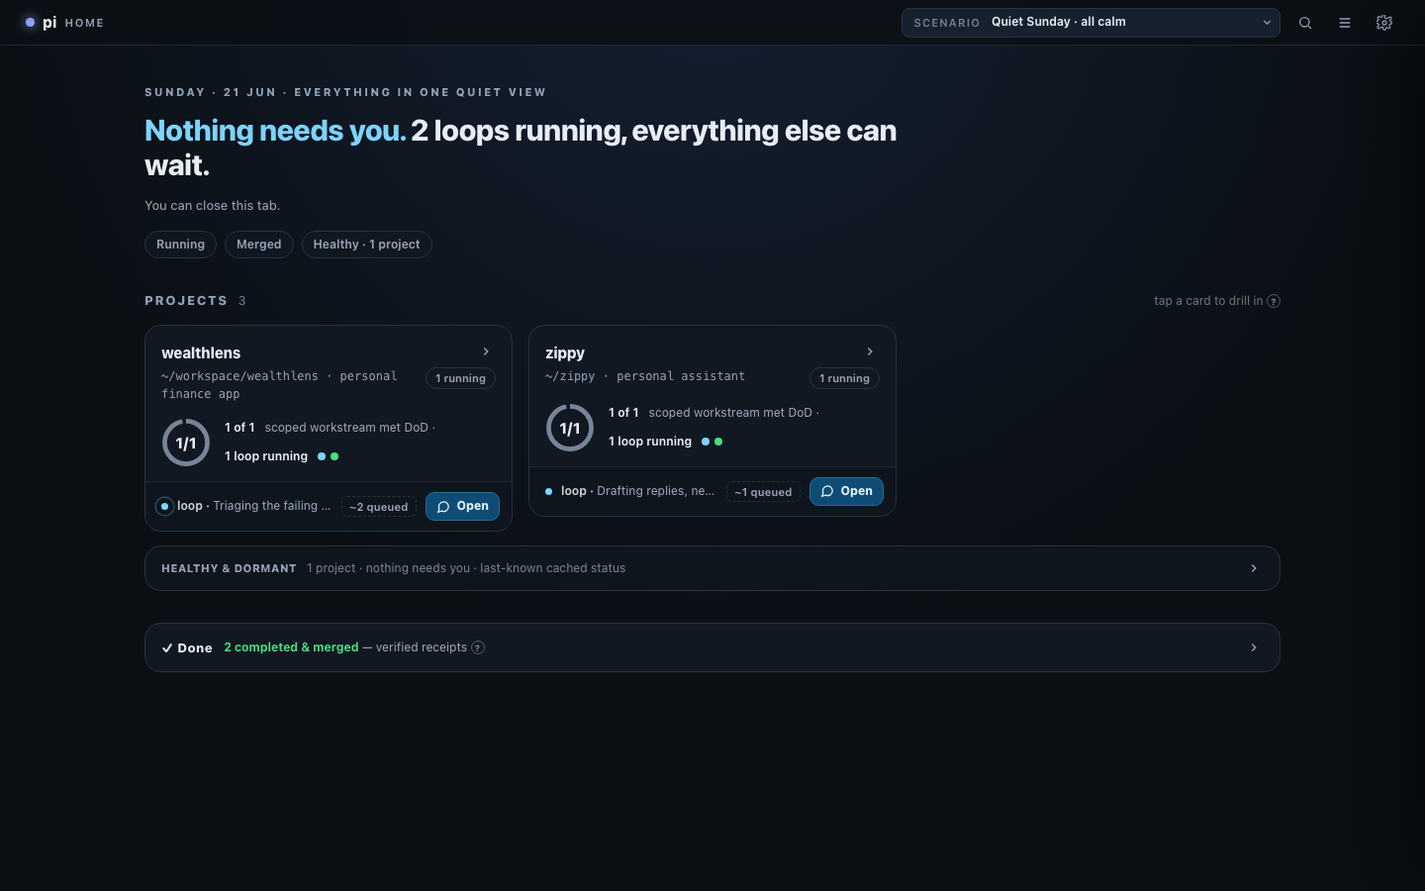
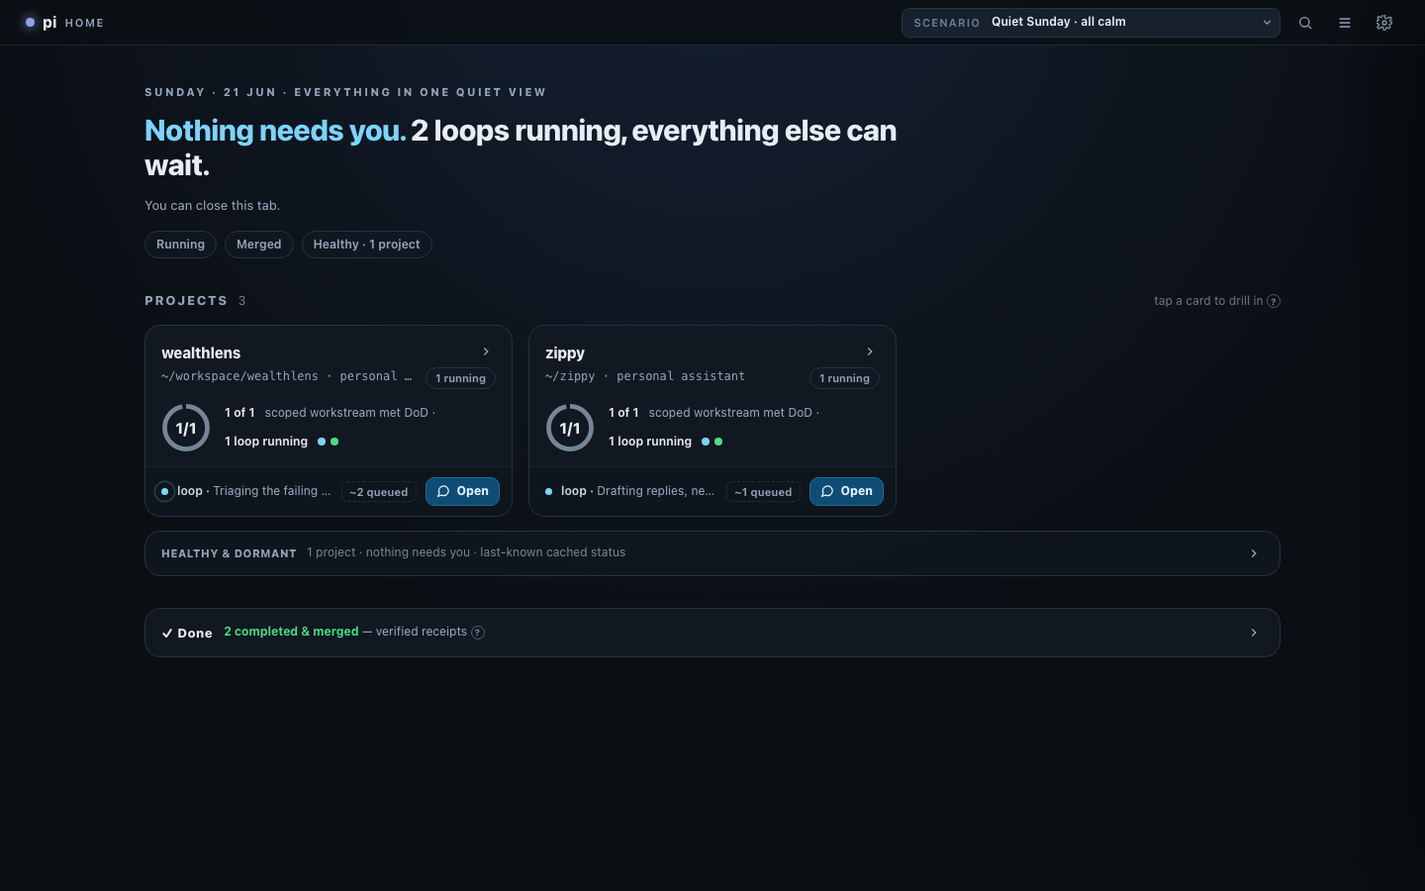
adv-fix: round 3

Changed region(s): [[0.0938, 0.4356, 0.4375, 0.6533], [0.125, 0.6844, 0.3438, 0.7467]]

diff --git a/docs/dashboard-designs-final/index.html b/docs/dashboard-designs-final/index.html
@@ -184,6 +184,12 @@ button{font:inherit;cursor:pointer;color:inherit;}
 .needmore.open .needmore-h .chev{transform:rotate(90deg);}
 .needmore-b{display:none;padding:2px 8px 8px;}
 .needmore.open .needmore-b{display:block;}
+/* (C4) jump-to-item filter — muted utility chrome, NOT a status hue (invariant #2 keeps colour to status) */
+.needjump{display:block;width:100%;margin:4px 0 8px;height:30px;padding:0 11px;border:1px solid var(--border);border-radius:8px;
+  background:color-mix(in srgb,var(--panel) 70%,transparent);color:var(--text);font-size:12px;}
+.needjump::placeholder{color:color-mix(in srgb,var(--muted) 75%,transparent);}
+.needjump:focus{outline:none;border-color:color-mix(in srgb,var(--accent) 45%,var(--border));}
+.needjump-empty{padding:8px 6px;color:var(--muted);font-size:12px;}
 .needrow{display:flex;align-items:center;gap:11px;padding:10px 8px;border-top:1px solid color-mix(in srgb,var(--border) 50%,transparent);}
 .needrow:first-child{border-top:0;}
 .needrow .nleft{flex:1;min-width:0;}
@@ -917,7 +923,7 @@ const WORLD_DEFAULT = [
               {text:"you review & sign off", met:false, src:"manual", gate:true, ev:"awaiting your sign-off"},
             ]},
         ]},
-      { id:"sweep", name:"Nightly bug-sweep loop", dod:"0 failing tests", dodSrc:"orchestrator-defined", status:"loop", loop:true, loopTime:"looping 38m",
+      { id:"sweep", name:"Nightly bug-sweep loop", dod:"0 failing tests", dodSrc:"orchestrator-defined", status:"loop", loop:true,
         sessions:[
           { id:"s5", name:"bug-sweep", status:"loop",
             dod:"0 failing tests (open-ended autonomous loop)", dodSrc:"orchestrator-defined",
@@ -941,7 +947,7 @@ const WORLD_DEFAULT = [
     ]},
   { id:"zippy", name:"zippy", path:"~/zippy", desc:"personal assistant",
     workstreams:[
-      { id:"inbox", name:"Inbox triage loop", dod:"inbox at zero, replies drafted", dodSrc:"agent-defined", status:"loop", loop:true, loopTime:"looping",
+      { id:"inbox", name:"Inbox triage loop", dod:"inbox at zero, replies drafted", dodSrc:"agent-defined", status:"loop", loop:true,
         sessions:[
           { id:"s6", name:"inbox-triage", status:"loop",
             dod:"inbox at zero, replies drafted (open-ended)", dodSrc:"agent-defined",
@@ -1070,7 +1076,7 @@ const WORLD_DENSE = [ (function(){
        crit:[c("branch merged into main",true,"git_merged","ancestor @ 9f3a1c2"),c("npm test → exit 0",true,"command","exit 0","at","2h ago"),c("working tree clean",true,"git_clean","dirtyCount 0")]}),
       "Auth task", ["merge","merge","merge","merge"]),
     mk("d_sweep","bug-sweep loop","0 failing tests","orchestrator-defined","loop",
-      {live:"Triaging failing tests (5 of 12 fixed).",meta:"looping 38m · iter 12",iter:12,elapsedMin:38,iterspark:[3,5,4,6,5,7,6,8,7,9,8,10],queue:["fix flaky e2e","upgrade vitest"],queueTotal:6,ws:{loop:true,loopTime:"looping 38m"}}),
+      {live:"Triaging failing tests (5 of 12 fixed).",meta:"looping 38m · iter 12",iter:12,elapsedMin:38,iterspark:[3,5,4,6,5,7,6,8,7,9,8,10],queue:["fix flaky e2e","upgrade vitest"],queueTotal:6,ws:{loop:true}}),
     // the session-heavy workstream (14 sessions) — proves the per-workstream "+N more sessions" cap (#20d, #8)
     pad(mk("d_tax","Tax form mappings","npm test → exit 0 + merged","rule-based","run",
       {live:"Mapping 1099 categories to ledger (step 7/8).",meta:"running 3m",
@@ -1103,7 +1109,7 @@ const WORLD_DENSE = [ (function(){
 const WORLD_CALM = [
   { id:"wealthlens", name:"wealthlens", path:"~/workspace/wealthlens", desc:"personal finance app",
     workstreams:[
-      { id:"sweep", name:"Nightly bug-sweep loop", dod:"0 failing tests", dodSrc:"orchestrator-defined", status:"loop", loop:true, loopTime:"looping 22m",
+      { id:"sweep", name:"Nightly bug-sweep loop", dod:"0 failing tests", dodSrc:"orchestrator-defined", status:"loop", loop:true,
         sessions:[{id:"c1",name:"bug-sweep",status:"loop",dod:"0 failing tests (open-ended)",dodSrc:"orchestrator-defined",
           live:"Triaging the failing test suite (7 of 11 fixed).",meta:"looping 22m · iter 9",loop:true,iter:9,elapsedMin:22,iterspark:[3,4,5,6,5,7,6,8,7],queue:["dedupe fixtures","fix flaky e2e"],queueTotal:2}]},
       { id:"auth", name:"Auth hardening", dod:"merged into local main", dodSrc:"merged", status:"merge", mergedAgo:"3h ago",
@@ -1113,7 +1119,7 @@ const WORLD_CALM = [
     ]},
   { id:"zippy", name:"zippy", path:"~/zippy", desc:"personal assistant",
     workstreams:[
-      { id:"inbox", name:"Inbox triage loop", dod:"inbox at zero", dodSrc:"agent-defined", status:"loop", loop:true, loopTime:"looping",
+      { id:"inbox", name:"Inbox triage loop", dod:"inbox at zero", dodSrc:"agent-defined", status:"loop", loop:true,
         sessions:[{id:"c3",name:"inbox-triage",status:"loop",dod:"inbox at zero (open-ended)",dodSrc:"agent-defined",
           live:"Drafting replies, never sending without sign-off.",meta:"looping 7m · iter 3",loop:true,iter:3,elapsedMin:7,iterspark:[5,6,7],queue:["draft reply to Maya"],queueTotal:1}]},
       { id:"cal", name:"Calendar sync", dod:"merged into local main", dodSrc:"merged", status:"merge", mergedAgo:"5h ago",
@@ -1198,7 +1204,7 @@ const WORLD_BLOCKED = [
 const WORLD_LOOP = [
   { id:"wealthlens", name:"wealthlens", path:"~/workspace/wealthlens", desc:"personal finance app",
     workstreams:[
-      { id:"sweep", name:"Nightly bug-sweep loop", dod:"0 failing tests", dodSrc:"orchestrator-defined", status:"loop", loop:true, loopTime:"looping 38m",
+      { id:"sweep", name:"Nightly bug-sweep loop", dod:"0 failing tests", dodSrc:"orchestrator-defined", status:"loop", loop:true,
         sessions:[
           { id:"g1", name:"bug-sweep", status:"loop",
             dod:"0 failing tests — open-ended, no fixed scope", dodSrc:"orchestrator-defined",
@@ -1213,7 +1219,7 @@ const WORLD_LOOP = [
     ]},
   { id:"datapipe", name:"datapipe", path:"~/workspace/datapipe", desc:"ETL service",
     workstreams:[
-      { id:"backfill", name:"Nightly backfill loop", dod:"0 dropped rows", dodSrc:"orchestrator-defined", status:"loop", loop:true, loopTime:"looping 2h 40m",
+      { id:"backfill", name:"Nightly backfill loop", dod:"0 dropped rows", dodSrc:"orchestrator-defined", status:"loop", loop:true,
         sessions:[
           { id:"g3", name:"backfill", status:"loop",
             dod:"0 dropped rows — open-ended", dodSrc:"orchestrator-defined",
@@ -1305,7 +1311,7 @@ function genScale(){
             live:"Which Plaid scopes should I request — transactions only, or also investments & liabilities?",kind:"question",meta:"idle 12m ago",
             chips:["transactions only","+ investments","+ liabilities"],
             crit:[{text:"OAuth scaffolded",met:true,src:"manual",ev:"ok"},{text:"scope decided",met:false,src:"manual",ev:"needs you"},{text:"integration test passes",met:false,src:"command",ev:"blocked",at:"never run"}]}]},
-        { id:"sweep", name:"bug-sweep loop", dod:"0 failing tests", dodSrc:"orchestrator-defined", status:"loop", loop:true, loopTime:"looping 38m",
+        { id:"sweep", name:"bug-sweep loop", dod:"0 failing tests", dodSrc:"orchestrator-defined", status:"loop", loop:true,
           sessions:[{id:"x2",name:"bug-sweep",status:"loop",dod:"0 failing tests (open-ended)",dodSrc:"orchestrator-defined",
             live:"Triaging failing tests (4 of 11 fixed).",meta:"looping 38m · iter 12",loop:true,iter:12,elapsedMin:38,iterspark:[3,5,4,6,5,7,6,8,7,9,8,10],queue:["fix flaky e2e","upgrade vitest"],queueTotal:6}]},
       ]},
@@ -1315,13 +1321,13 @@ function genScale(){
           sessions:[{id:"x3",name:"cal-sync",status:"fail",blast:"md",failAction:"Re-authenticate",dod:"npm test → exit 0 + merged",dodSrc:"rule-based",
             live:"Google OAuth token expired — needs re-auth.",kind:"failed",meta:"failed 21m ago",
             crit:[{text:"OAuth token valid",met:false,src:"command",ev:"401",at:"21m ago"},{text:"npm test → exit 0",met:false,src:"command",ev:"blocked",at:"21m ago"}]}]},
-        { id:"inbox", name:"Inbox triage loop", dod:"inbox at zero", dodSrc:"agent-defined", status:"loop", loop:true, loopTime:"looping",
+        { id:"inbox", name:"Inbox triage loop", dod:"inbox at zero", dodSrc:"agent-defined", status:"loop", loop:true,
           sessions:[{id:"x4",name:"inbox-triage",status:"loop",dod:"inbox at zero (open-ended)",dodSrc:"agent-defined",
             live:"Summarizing 14 emails, drafting 3 replies.",meta:"looping 9m · iter 4",loop:true,iter:4,elapsedMin:9,iterspark:[4,6,5,7],queue:["draft reply to Maya"],queueTotal:3}]},
       ]},
     { id:"datapipe", name:"datapipe", path:"~/workspace/datapipe", desc:"ETL service",
       workstreams:[
-        { id:"backfill", name:"Nightly backfill loop", dod:"0 dropped rows", dodSrc:"orchestrator-defined", status:"loop", loop:true, loopTime:"looping 2h",
+        { id:"backfill", name:"Nightly backfill loop", dod:"0 dropped rows", dodSrc:"orchestrator-defined", status:"loop", loop:true,
           sessions:[{id:"x6",name:"backfill",status:"loop",dod:"0 dropped rows (open-ended)",dodSrc:"orchestrator-defined",
             live:"Reprocessing 2024-Q4 partitions.",meta:"looping 2h · iter 31",loop:true,iter:31,elapsedMin:120,iterspark:[6,7,6,8,7,9,8,10,9,8],queue:["retry 3 failed shards"],queueTotal:1}]},
       ]},
@@ -1358,7 +1364,7 @@ function genScale(){
   // collapse to ~6 full cards + a "Running · N more" grouped row card, not 10 instrument panels.
   const loopNames = ["etl-nightly","index-rebuild","crawl-news","retrain-rec","cache-warm","log-compact","img-thumbs","feed-sync","metrics-roll"];
   const activeLoops = loopNames.map((nm,i)=>({ id:nm, name:nm, path:"~/workspace/"+nm, desc:"",
-    workstreams:[{ id:nm+"_loop", name:"Nightly "+nm+" loop", dod:"0 errors", dodSrc:"orchestrator-defined", status:"loop", loop:true, loopTime:"looping "+(10+i*7)+"m",
+    workstreams:[{ id:nm+"_loop", name:"Nightly "+nm+" loop", dod:"0 errors", dodSrc:"orchestrator-defined", status:"loop", loop:true,
       sessions:[{ id:nm+"_s", name:nm, status:"loop", dod:"0 errors (open-ended)", dodSrc:"orchestrator-defined",
         live:"Processing batch "+(i+2)+"/"+(i+8)+".", meta:"looping "+(10+i*7)+"m · iter "+(3+i), loop:true, iter:3+i, elapsedMin:(10+i*7),
         iterspark:[3,4,5,6,5,7,6], queue:["next batch"], queueTotal:1 }]}]}));
@@ -1536,6 +1542,10 @@ function dotStrip(p){
 function projNeeds(p){ let you=0,fail=0,sign=0,run=0; p.workstreams.forEach(w=>w.sessions.forEach(s=>{
   if(s.status==="block" && s.elicited) you++; if(s.status==="fail") fail++; if(s.status==="sign") sign++; if(s.status==="run"||s.status==="loop") run++; })); return {you,fail,sign,run}; }
 function pClass(p){ const c=projNeeds(p); if(c.you||c.fail) return "attn"; if(c.run) return "active"; if(c.sign) return "signoff"; return "calm"; }
+/* (round-3 adv-fix C3) project-level blast = the STRONGEST blast radius among its need (block/fail)
+   sessions, so the attn-card cap keeps the highest-blast projects as full cards and folds the rest. Reuses
+   the same heuristic blastRadius() Needs-you triages on — no new signal, just a project rollup. */
+function cardBlast(p){ let best="lo"; p.workstreams.forEach(w=>w.sessions.forEach(s=>{ if(isNeed(s)){ const b=blastRadius(s); if(blastRank(b)<blastRank(best)) best=b; } })); return best; }
 function firstSessId(p, statuses){ for(const w of p.workstreams) for(const s of w.sessions) if(statuses.includes(s.status)) return s.id; return null; }
 
 /* representative live one-liner (carry-fwd #A — the core attention-routing fix): the card surfaces the
@@ -1653,9 +1663,12 @@ function fleetCounts(){
    throughput; numstat is demoted to the merged fragment's tooltip; each fragment is a jump-link. */
 const fmtN = n => n>=1000?(n/1000).toFixed(1)+"k":n;
 const shortWs = nm => String(nm||"").replace("Nightly ","").replace("Spike: ","").replace(" loop","");
-/* live loop label = elapsed only (from stored loopStartedAt). The "· iter N" count needs a durable
-   iteration log pi does not expose, so it is stripped from the live view and shown only as proposed (#D). */
-const loopElapsed = txt => String(txt||"looping").replace(/\s*·\s*iter\s*\d+/i,"");
+/* live loop label = elapsed ONLY, and that elapsed traces to the SINGLE grounded source (the stored
+   loopStartedAt, encoded in fixtures as the numeric elapsedMin). The old loopElapsed() text-parse of the
+   free-text meta/loopTime string has been DELETED (round-3 adv-fix C1/C2) so no badge can ever re-derive
+   elapsed from un-grounded free text — every loop badge now flows through loopMinutes()/fmtMin like the
+   hero, giving one un-desyncable signal. The "· iter N" count still needs a durable iteration log pi does
+   not expose, so it is never shown live (proposed band only, #D). */
 function fleetDelta(){
   let merges=0, add=0, del=0, blocked=0;
   // "since your last visit" must mean SINCE the stored lastDashboardVisitAt — not a fixed "few hours"
@@ -1702,6 +1715,15 @@ function loopMinutes(s,w){
   return s.elapsedMin!=null ? s.elapsedMin : 0;
 }
 function fmtMin(min){ if(min>=60){ const h=Math.floor(min/60), m=min%60; return m?`${h}h ${m}m`:`${h}h`; } return `${min}m`; }
+/* workstream-level grounded loop elapsed (round-3 adv-fix C1/C2): a loop workstream's badge derives its
+   elapsed from the SAME stored loopStartedAt as everything else — take the max elapsedMin across the
+   workstream's loop sessions. No free-text loopTime parse; an un-grounded loop workstream yields 0m, not
+   a banned string. fmtMin formats it so the ws badge, the per-row badge, the drawer line and the hero are
+   one signal that cannot silently desync. */
+function wsLoopMinutes(w){
+  let best=0; (w.sessions||[]).forEach(s=>{ if(s.loop){ const m=loopMinutes(s,w); if(m>best) best=m; } });
+  return best;
+}
 function longestLoop(){
   let best=null;
   Object.values(state.SESS).forEach(({s,w})=>{ if(s.loop){ const min=loopMinutes(s,w); if(!best||min>best.min) best={min, label:fmtMin(min)}; } });
@@ -1817,10 +1839,15 @@ function renderNeeds(){
   const host=document.getElementById("needs"); if(!host) return;
   const items=[];
   Object.values(state.SESS).forEach(({s,w,p})=>{ if(isNeed(s)) items.push({s,w,p}); });
-  // blast radius is the primary triage axis; ties break by AGE (oldest waiting first), then block-before-fail (#7)
+  // blast radius is the primary triage axis; ties break by AGE (oldest waiting first), then block-before-fail (#7),
+  // then a DETERMINISTIC id tiebreaker (round-3 adv-fix C4): at N=200 backlog, blast+age+status routinely
+  // tie across many items, and without a stable final key the order silently collapses toward iteration
+  // order (which differs run-to-run as SESS rebuilds). The id sort makes the triage order reproducible so a
+  // user re-finds the same blocked item #100 across renders.
   items.sort((a,b)=> blastRank(blastRadius(a.s))-blastRank(blastRadius(b.s))
     || (agoToMin(b.s.meta)-agoToMin(a.s.meta))
-    || (a.s.status==="block"?0:1)-(b.s.status==="block"?0:1));
+    || (a.s.status==="block"?0:1)-(b.s.status==="block"?0:1)
+    || String(a.s.id).localeCompare(String(b.s.id)));
   const top = items.slice(0,2);
   const rest = items.slice(2);
   let html = top.map(({s,w,p})=>{
@@ -1881,7 +1908,11 @@ function renderNeeds(){
       const rowBtn = s.status==="fail"
         ? `<button class="btn primary sm" data-open="${s.id}">${continueIcon()} ${esc(s.failAction||"Re-run")}</button>`
         : `<button class="btn primary sm" data-open="${s.id}">${continueIcon()} Continue</button>`;
-      return `<div class="needrow">
+      // (round-3 adv-fix C4) each overflow row carries a stable id + a lowercase searchable haystack
+      // (project · workstream · item · live) so the "jump to item" filter can reach blocked item #100 in a
+      // large backlog without scrolling 198 rows.
+      const hay = esc(`${p.name} ${w.name} ${s.name} ${s.live||""}`.toLowerCase());
+      return `<div class="needrow" id="needrow-${esc(s.id)}" data-needfilter="${hay}">
         <span class="sess-dot ${(ST[s.status]||{}).cls||'idle'}" style="background:${(ST[s.status]||{}).color}"></span>
         <div class="nleft">
           <div class="ncrumb"><b>${esc(p.name)}</b> › ${esc(w.name)} ${blastTag}${waitTag}</div>
@@ -1892,12 +1923,38 @@ function renderNeeds(){
       </div>`;
     };
     const RCAP=6, rShown=rest.slice(0,RCAP), rExtra=rest.slice(RCAP);   // cap the reveal too (#9)
+    // (round-3 adv-fix C4) at a large backlog the capped reveal alone can't reach a deep item — add a
+    // "jump to item" filter that narrows the overflow to matching rows (it auto-reveals the hidden tail so
+    // even item #100 is reachable). Gated on a threshold so a small backlog stays calm and uncluttered.
+    const JUMP_MIN = 8;
+    const jumpBox = rest.length>=JUMP_MIN
+      ? `<input class="needjump" type="search" placeholder="jump to item — filter ${rest.length} by project / workstream / name" aria-label="jump to a blocked item" oninput="filterNeeds(this)">`
+      : "";
     html += `<div class="needmore" id="needmore" style="grid-column:1/-1">
-      <div class="needmore-h" data-toggle="needmore"><b>+${rest.length} more need you</b> — collapsed to stay calm; ordered by blast radius<span class="chev">${chevIcon()}</span></div>
-      <div class="needmore-b">${rShown.map(needRow).join("")}${rExtra.length?`<div class="more-rows" hidden>${rExtra.map(needRow).join("")}</div><button class="morelink" data-toggle="more">+${rExtra.length} more — show all</button>`:""}</div>
+      <div class="needmore-h" data-toggle="needmore"><b>+${rest.length} more need you</b> — collapsed to stay calm; ordered by blast radius, then waiting time<span class="chev">${chevIcon()}</span></div>
+      <div class="needmore-b">${jumpBox}<div class="needjump-empty" hidden>No matching item.</div>${rShown.map(needRow).join("")}${rExtra.length?`<div class="more-rows" hidden>${rExtra.map(needRow).join("")}</div><button class="morelink" data-toggle="more">+${rExtra.length} more — show all</button>`:""}</div>
     </div>`;
   }
   host.innerHTML = html;
+}
+/* (round-3 adv-fix C4) "jump to item" — filter the Needs-you overflow so a deep blocked item in a large
+   backlog is reachable without scrolling. While a query is active the hidden tail (the +N more-rows block)
+   is force-shown so EVERY matching row surfaces, not just the first capped page; clearing the box restores
+   the calm capped state. Pure client-side text match against the row's data-needfilter haystack. */
+function filterNeeds(inp){
+  const wrap = inp.closest(".needmore-b"); if(!wrap) return;
+  const q = String(inp.value||"").trim().toLowerCase();
+  const tail = wrap.querySelector(".more-rows");
+  const moreBtn = wrap.querySelector(".morelink");
+  const empty = wrap.querySelector(".needjump-empty");
+  const rows = Array.from(wrap.querySelectorAll(".needrow"));
+  if(q){ if(tail) tail.hidden=false; if(moreBtn) moreBtn.style.display="none"; }
+  else { if(moreBtn) moreBtn.style.display=""; }
+  let shown=0;
+  rows.forEach(r=>{ const hit = !q || (r.getAttribute("data-needfilter")||"").includes(q); r.style.display = hit?"":"none"; if(hit) shown++; });
+  // when the query is cleared, re-hide the tail rows so the overflow returns to its capped resting state
+  if(!q && tail){ tail.hidden=true; tail.querySelectorAll(".needrow").forEach(r=>{ r.style.display=""; }); }
+  if(empty) empty.hidden = !(q && shown===0);
 }
 
 /* ─────────────────────────── sign-off — first-class to-do LIST (#1,#4,#5,#6) ─────────────────────────── */
@@ -2034,12 +2091,31 @@ function renderGrid(){
       <div class="grpcard" id="sec-collapsed"><div class="grp-h" data-toggle="grp"><span class="gt">In Needs you</span> <span class="gc">${fullCandidates.length} project${fullCandidates.length>1?"s":""} · drill in for full context</span><span class="chev">${chevIcon()}</span></div>
         <div class="grp-b">`+fullCandidates.map(p=>renderRow(p)).join("")+`</div></div>`;
   } else {
+    // (round-3 adv-fix C3) cap ATTN full-cards too — a correlated-failure surge (every project blocked at
+    // once, e.g. one dependency stops N sub-agents) must NOT paint one full ring-card per blocked project,
+    // or the grid becomes the instrument-panel wall invariant #6 forbids "at ANY scale". The first N render
+    // as full cards (sorted so the highest-blast attn projects keep their rich card); the rest fold into a
+    // grouped "N more need attention" overflow row that points up to Needs-you, mirroring activeOverflow.
+    const ATTN_CAP = 4;
+    const attnSorted = attn.slice().sort((a,b)=> blastRank(cardBlast(a))-blastRank(cardBlast(b)));
+    const attnFull = attnSorted.slice(0, ATTN_CAP);
+    const attnOverflow = attnSorted.slice(attnFull.length);
     const ACTIVE_CAP = 4;   // cap ACTIVE full-cards too (carry-fwd #F) — overflow folds into "Running · N more"
     const activeFull = active.slice(0, ACTIVE_CAP);
     const activeOverflow = active.slice(activeFull.length);
-    const full = attn.concat(activeFull).concat(fullSign);
-    const single = full.length===1 && !signoff.length && !dormant.length && !activeOverflow.length;
+    const full = attnFull.concat(activeFull).concat(fullSign);
+    const single = full.length===1 && !signoff.length && !dormant.length && !activeOverflow.length && !attnOverflow.length;
     if(full.length) out += `<div class="grid ${single?'single':''}">`+full.map(p=>renderCard(p)).join("")+`</div>`;
+    // (C3) fold attn overflow into a "Needs attention · N more" grouped-row card. Windowing (#9 more-rows
+    // cap) keeps even a fleet-wide block from rendering an unbounded row list — overflow tail folds again
+    // behind "+N more — show all". Each row still NAMES its blocker and jumps up to Needs you (invariant #4).
+    if(attnOverflow.length){
+      const AOC=6, aoShown=attnOverflow.slice(0,AOC), aoExtra=attnOverflow.slice(AOC);
+      out += `<div class="grpcard" id="sec-attn-more"><div class="grp-h" data-toggle="grp"><span class="gt">Needs attention</span> <span class="gc">${attnOverflow.length} more need attention · answer in Needs you above</span><button class="jump" data-jump="sec-needs">answer ↑</button><span class="chev">${chevIcon()}</span></div>
+        <div class="grp-b">`+aoShown.map(p=>renderRow(p)).join("")
+          +(aoExtra.length?`<div class="more-rows" hidden>${aoExtra.map(p=>renderRow(p)).join("")}</div><button class="morelink" data-toggle="more">+${aoExtra.length} more — show all</button>`:"")
+        +`</div></div>`;
+    }
     // #2: fold active overflow into a "Running · N more" grouped-row card (name + dot-strip + live one-liner)
     if(activeOverflow.length){
       out += `<div class="grpcard" id="sec-running"><div class="grp-h" data-toggle="grp"><span class="gt">Running</span> <span class="gc">${activeOverflow.length} more loop${activeOverflow.length>1?"s":""} · live · nothing needs you</span><span class="chev">${chevIcon()}</span></div>
@@ -2204,7 +2280,7 @@ function renderRow(p, opts){
 function renderWorkstream(w,p,opts){
   let extra="";
   if(w.status==="loop"){
-    extra = `<span class="loopBadge"><span class="inf">∞</span> ${esc(loopElapsed(w.loopTime||"looping"))}</span>`;
+    extra = `<span class="loopBadge"><span class="inf">∞</span> looping ${esc(fmtMin(wsLoopMinutes(w)))}</span>`;
   } else extra = badge(w.status);
   // session-list cap (#20d): only the first 6 (by attention) render; the rest fold behind "+N more"
   const sorted = w.sessions.slice().sort(byAttention);
@@ -2304,8 +2380,10 @@ function renderSession(s,w,p,opts){
   // workstream header already states it — so suppress the repeated per-row line. It re-appears only on
   // rows whose source/criteria DEVIATE (e.g. a sign-off or merged row inside a rule-based workstream).
   const dodHoisted = w && w.status!=="unset" && s.status!=="unset" && s.dod===w.dod && s.dodSrc===w.dodSrc;
-  // live loop badge = elapsed only (from stored loopStartedAt); iter count / rhythm / budget are PROPOSED (#D)
-  const loopTag = s.loop ? `<span class="loopBadge"><span class="inf">∞</span> ${esc(loopElapsed(s.meta||'looping'))}</span>` : "";
+  // live loop badge = elapsed only, derived from the stored loopStartedAt via loopMinutes() — the SAME
+  // grounded source the hero uses, never the free-text meta string (round-3 adv-fix C1/C2). iter count /
+  // rhythm / budget are PROPOSED (#D).
+  const loopTag = s.loop ? `<span class="loopBadge"><span class="inf">∞</span> looping ${esc(fmtMin(loopMinutes(s,w)))}</span>` : "";
   // (#it6-p7b) a NON-elicited idle stop can't be PROVEN blocked — surface the honest "Idle · may be waiting"
   // degradation (grey, no alarm hue), never a fabricated amber block. This is the only place it renders on a row.
   const softTag = (s.status==="block" && !s.elicited) ? ` ${badge("block", true)}` : "";
@@ -2514,7 +2592,7 @@ function transcript(s,w,p){
     body += ai(tool("cron · run","$ node sync.js\n→ refreshing token\n✗ 401 invalid_grant: token expired or revoked", false)
       + `<div class="ferr"><b>⚠ Failed — ${esc(s.live)}</b><br>I can resume the moment you ${esc((s.failAction||'re-run').toLowerCase())}. Nothing else is blocked on this.</div>`);
   } else if(s.status==="loop"){
-    body += `<div class="m sys">Autonomous loop · ${esc(loopElapsed(s.meta||'looping'))} · DoD: ${esc(s.dod)}</div>`;
+    body += `<div class="m sys">Autonomous loop · looping ${esc(fmtMin(loopMinutes(s,w)))} · DoD: ${esc(s.dod)}</div>`;
     body += ai(think("Thought · picking the next item","Open-ended loop. I work the highest-signal item, re-evaluate, and append new findings. Stopping condition is the DoD, not a fixed list.")
       + tool("run · latest iteration","… progress this iteration", false)
       + `<p>${esc(s.live)} I will keep looping until the Definition of Done is met.</p>`);
